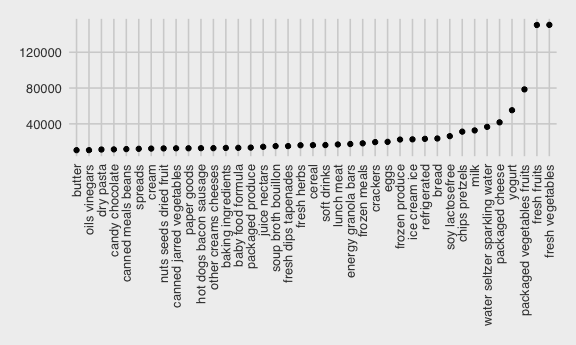
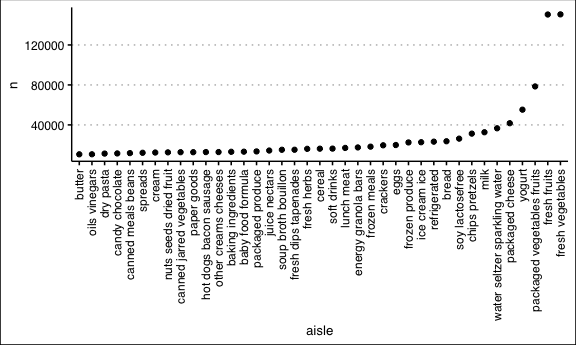
working through problem 1 in class, starting problem 2 and 3

diff --git a/p8105_hw3_aa3832.md b/p8105_hw3_aa3832.md
@@ -9,14 +9,14 @@ Alexey Abramov
 library(tidyverse)
 ```
 
-    ## ── Attaching packages ────────────────────────────────────────── tidyverse 1.3.0 ──
+    ## ── Attaching packages ────────────────────────────────────── tidyverse 1.3.0 ──
 
     ## ✓ ggplot2 3.3.2     ✓ purrr   0.3.4
     ## ✓ tibble  3.0.3     ✓ dplyr   1.0.2
     ## ✓ tidyr   1.1.2     ✓ stringr 1.4.0
     ## ✓ readr   1.3.1     ✓ forcats 0.5.0
 
-    ## ── Conflicts ───────────────────────────────────────────── tidyverse_conflicts() ──
+    ## ── Conflicts ───────────────────────────────────────── tidyverse_conflicts() ──
     ## x dplyr::filter() masks stats::filter()
     ## x dplyr::lag()    masks stats::lag()
 
@@ -31,7 +31,7 @@ knitr::opts_chunk$set(
 )
 
 theme_set(
-  ggthemes::theme_fivethirtyeight() + theme(legend.position = "bottom")
+  ggthemes::theme_clean() + theme(legend.position = "bottom")
   )
 
 options(
